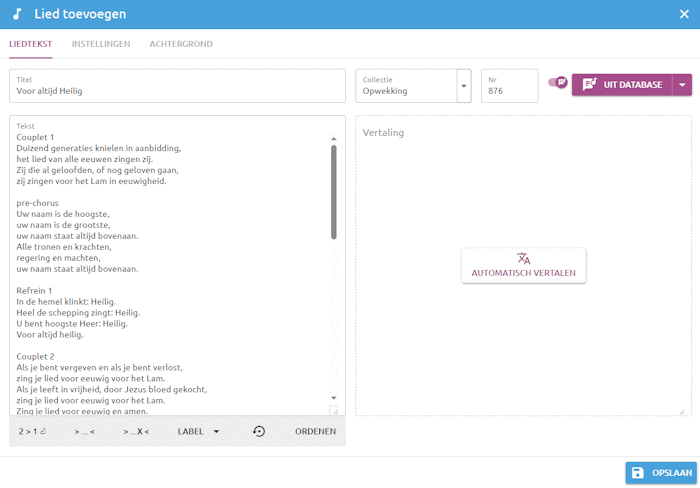
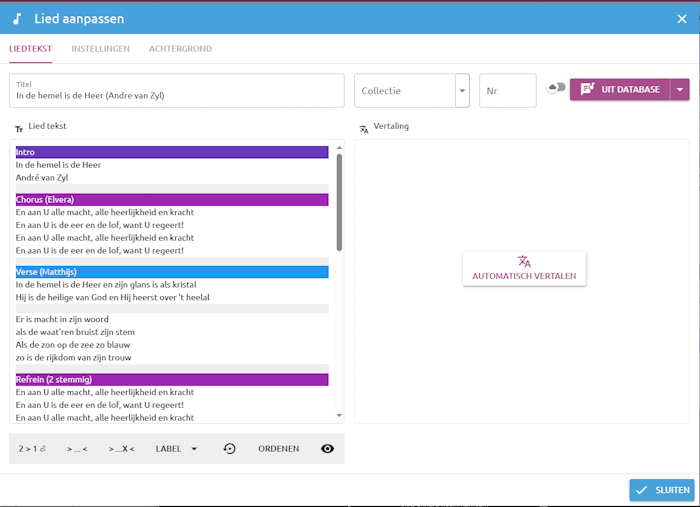
update help 1.9.6

diff --git a/src/components/help/HelpShortkey.vue b/src/components/help/HelpShortkey.vue
@@ -13,6 +13,8 @@
         row-key="name"
         dense
       />
+      <br>
+      <p>Opm.: de toetsen tussen ( ... ) werken alleen in de stand afstandsbediening.</p>
     </div>
     <div class="text-h6 q-mb-md">
       Quick live
@@ -39,13 +41,14 @@ const columns = [
 ]
 
 const rows = [
-  { shortkey: 'Ctrl + C of F6', function: 'Live weergave aan/uit zetten (wijzig: clear)' },
-  { shortkey: '➡  of  ⬇', function: 'Ga naar volgende regel/onderdeel in live' },
-  { shortkey: '⬅  of  ⬆', function: 'Ga naar vorige regel/onderdeel in live' },
+  { shortkey: 'Ctrl + C of F6 of spatie of (.)', function: 'Live weergave aan/uit zetten (wijzig: clear)' },
+  { shortkey: '➡  of  ⬇ of (page down)', function: 'Ga naar volgende regel/onderdeel in live' },
+  { shortkey: '⬅  of  ⬆ of (page up)', function: 'Ga naar vorige regel/onderdeel in live' },
   { shortkey: 'Ctrl + ➡', function: 'Preview naar live verplaatsen (Go Live)' },
   { shortkey: 'Ctrl + N', function: 'Nieuwe dienst aanmaken' },
   { shortkey: 'Ctrl + O', function: 'Opgeslagen dienst openen' },
-  { shortkey: 'Ctrl + S', function: 'Huidige dienst opslaan' }
+  { shortkey: 'Ctrl + S', function: 'Huidige dienst opslaan' },
+  { shortkey: '(F5 of esc)', function: 'Play/Stop van film' }
 ]
 
 export default {

diff --git a/src/components/help/HelpLive.vue b/src/components/help/HelpLive.vue
@@ -31,6 +31,10 @@
           1x aanklikken zorgt er voor dat het onderdeel in de preview kolom zichtbaar wordt.<br>
           Dubbel aanklikken zorgt er voor dat het onderdeel direct naar de live kolom toe gaat en het volgende onderdeel in de preview kolom terecht komt.<br>
           Bovenin kan je ook aangeven of de dienst alleen voor de beamer bedoeld is, om geen opsplitsing van teksten te krijgen.<br>
+          Daarnaast zit een knop werking van het doorlopen van de setlist met de pijltjes toetsen te wijzigen.<br>
+          <img src="../../assets/help/normalchange.png"> is de normale stand waarbij een nieuw onderdeel via go live in de live kolom komt.<br>
+          <img src="../../assets/help/continuchange.png"> stel je in om continu door te gaan met de pijltjes toetsen (onderaan een lied gaat hij gelijk door naar volgende lied bijvoorbeeld.<br>
+          <img src="../../assets/help/remotechange.png"> Zet je de stand nog een verder kan je ook gebruik maken van een afstandsbediening om door de sheets/onderdelen door te klikken.<br>
           Onderin is een snel zoeken vak aanwezig voor liederen uit de lokale of cloud database.
         </li>
         <li>

diff --git a/src/components/help/HelpMain.vue b/src/components/help/HelpMain.vue
@@ -11,6 +11,7 @@
     </p>
     <p>De dienst is thuis voor te bereiden via de web app. En in de kerk te openen op de desktop met uitvoer naar de verschillende schermen.</p>
     <p>Tijdens de dienst kunnen er mededelingen/oproepen boven in het scherm weergeven worden.</p>
+    <p>Gebruik van een afstandbediening kan aan/uit gezet worden.</p>
     <div class="text-h6 q-mb-md">
       Verschillende presentatie-types:
     </div>
@@ -77,6 +78,9 @@
       </li>
       <li>
         Bij de web-app is de monitor keuze niet aanwezig; hier zijn 3 knoppen aanwezig <img src="../../assets/help/buttonoutput.png"> om het uitvoerscherm van de beamer, de livestream & de stageweergave te tonen in een nieuw browser venster.
+      </li>
+      <li>
+        In de desktop app kan je een eigen standaard achtergrond & standaard collecte/nazorg en einde dienst afbeeldingen instellen.
       </li>
       <li>
         De PCO live weergave kan je starten met de knop <img src="../../assets/help/pcolive.png"> , met de rechter muisknop op deze knop kan je dit scherm ook leeg maken of een andere live dienst uit PCO kiezen via de id.

diff --git a/src/components/help/HelpSong.vue b/src/components/help/HelpSong.vue
@@ -102,6 +102,9 @@
           <img src="../../assets/help/addsongdialogordenen.png"> Hiermee start je het tekst ordenen dialoog op.<br>
           Zie onder voor verdere uitleg.
         </li>
+        <li>
+          <img src="../../assets/help/addsongdialogview.png"> Hiermee switch je tussen de opmaak en tekst weergave.
+        </li>
       </ul>
     </p>
     <p>

diff --git a/README.md b/README.md
@@ -19,6 +19,7 @@ Presentatiesoftware voor beamer én livestream
 - Countdown tot begin van de dienst.
 - Standaard en donkere weergave modes.
 - Autoupdate functie bij nieuwe versie.
+- Afstandsbediening gebruik mogelijk tijdens presentatie
 
 ## Licentie
 <a rel="license" href="https://creativecommons.org/licenses/by-nc/4.0/deed.nl"><img alt="Creative Commons-Licentie" style="border-width:0" src="https://licensebuttons.net/l/by-nc/4.0/88x31.png" /></a><br />VezyWorship valt onder een <a rel="license" href="https://creativecommons.org/licenses/by-nc/4.0/deed.nl">CC BY-NC 4.0 licentie</a>.
